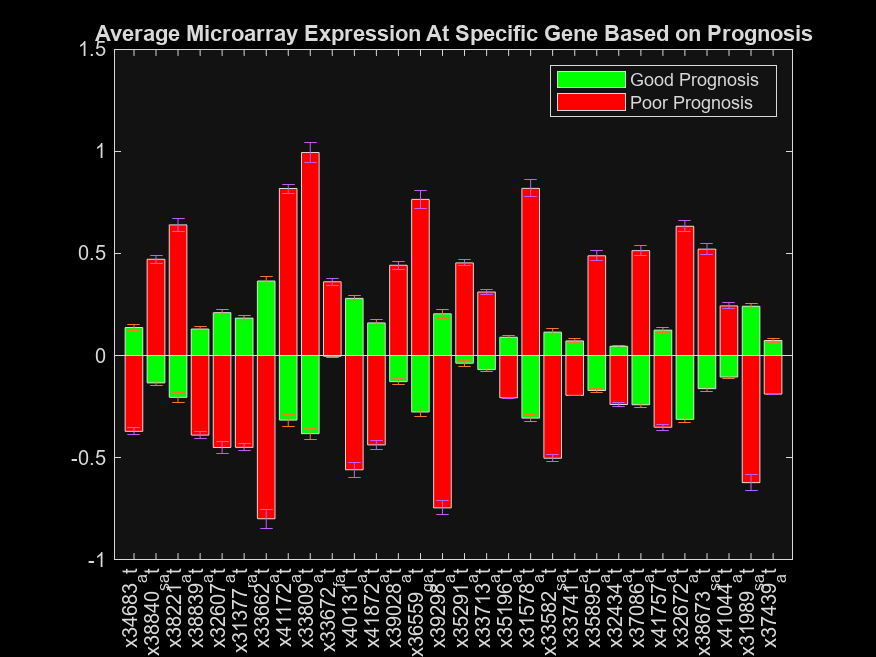
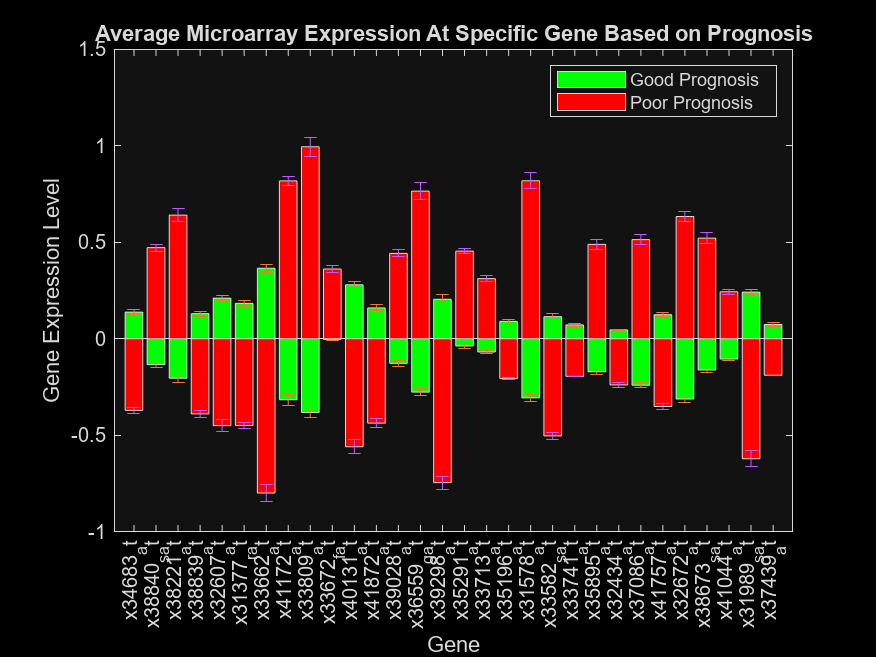
Added new graph

diff --git a/num_2.m b/num_2.m
@@ -60,5 +60,25 @@ er_bad.LineStyle = 'none';
 legend(["Good Prognosis","","Poor Prognosis"]);
 
 title("Average Microarray Expression At Specific Gene Based on Prognosis");
+xlabel("Gene");
+ylabel("Gene Expression Level");
 
 saveas(gcf,"RawDat.png");
+
+% Plot p-values 
+
+figure
+bar(rowName,p_val);
+
+hold on
+
+yline(0.05,"--");
+ylim([0 0.055])
+
+legend(["P-value","Failure to Reject Null Hypothesis"]);
+
+title("Visualization of p-values for Each Gene");
+ylabel("Probability of Observing Test Statistic or More Extreme");
+xlabel("Gene");
+
+saveas(gcf,"pvals.png");
